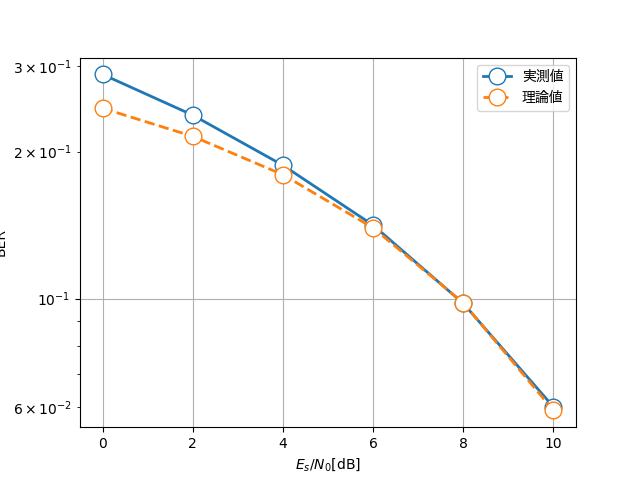
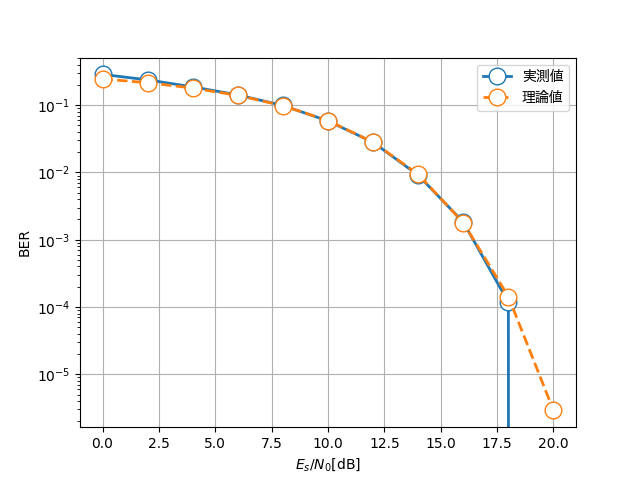
iterごとの時間計測実装

diff --git a/hpctoolkit/main.py b/hpctoolkit/main.py
@@ -21,23 +21,31 @@ class HPCToolkit:
         self.nworker = SIM.nworker
         self.nloop = SIM.nloop
         self.EsN0 = SIM.EsN0
-        # self.process_start_time_list = [['' for i in range(EsN0.shape[0])] for j in range(nworker)]
-        # self.process_finish_time_list = [['' for i in range(EsN0.shape[0])] for j in range(nworker)]
-        self.process_start_time_ndarray = np.zeros((self.nworker, self.EsN0.shape[0]))
-        self.process_finish_time_ndarray = np.zeros((self.nworker, self.EsN0.shape[0]))
+        self.process_start_time_list = [['' for i in range(1)] for j in range(self.nworker)]
+        self.process_finish_time_list = [['' for i in range(1)] for j in range(self.nworker)]
+        # self.process_start_time_ndarray = np.zeros((self.nworker, self.EsN0.shape[0]))
+        # self.process_finish_time_ndarray = np.zeros((self.nworker, self.EsN0.shape[0]))
         self.lock = SIM.lock
         # 初期値書き込み
         self.write_initial(self.get_str_spec(self.nworker))
         print()
 
     def start(self, process_idx: int, EsN0_idx: int):
-        # self.process_start_time_list[process_idx][EsN0_idx] = time.time()
-        self.process_start_time_ndarray[process_idx, EsN0_idx] = time.time()
+        if EsN0_idx == 0:
+            self.process_start_time_list[process_idx][EsN0_idx] = time.time()
+        else:
+            self.process_start_time_list[process_idx].append(time.time())
+        # self.process_start_time_ndarray[process_idx, EsN0_idx] = time.time()
 
     def finish(self, process_idx: int, EsN0_idx: int):
-        # self.process_finish_time_list[process_idx][EsN0_idx] = time.time()
-        self.process_finish_time_ndarray[process_idx, EsN0_idx] = time.time()
-        average_time = np.mean(self.process_finish_time_ndarray[process_idx, :] - self.process_start_time_ndarray[process_idx, :])
+        if EsN0_idx == 0:
+            self.process_finish_time_list[process_idx][EsN0_idx] = time.time()
+        else:
+            self.process_finish_time_list[process_idx].append(time.time())
+        # self.process_finish_time_ndarray[process_idx, EsN0_idx] = time.time()
+        # average_time = np.mean(self.process_finish_time_ndarray[process_idx, :] - self.process_start_time_ndarray[process_idx, :])
+        diff_time_list = [x - y for x, y in zip(self.process_finish_time_list[process_idx], self.process_start_time_list[process_idx])]
+        average_time = sum(diff_time_list) / len(diff_time_list)
         d, h, m, s = get_d_h_m_s(float(average_time))
         average_time_text = str(d) + "d " + str(h) + "h " + str(m) + "m " + str(s) + "s" + "/iter"
         text = str(process_idx) + " " + progressbar(EsN0_idx, self.EsN0.shape[0]-1) + " " + average_time_text + "\n"

diff --git a/main.py b/main.py
@@ -12,11 +12,11 @@ class Constant:
 
 if __name__ == '__main__':
     SIM = Constant()
-    SIM.nworker = 19
+    SIM.nworker = 10
     SIM.Kd = 32
     SIM.wloop = 3
     SIM.ml = 4
-    SIM.EsN0 = np.arange(0, 11, 2)
+    SIM.EsN0 = np.arange(0, 21, 2)
     SIM.nloop = 10**SIM.wloop
     SIM.Q = 2**SIM.ml
     RES = np.zeros([len(SIM.EsN0), 7])

diff --git a/main_task.py b/main_task.py
@@ -54,7 +54,7 @@ def main_task(param):
     for idx_En in range(0, len(SIM.EsN0)):
         SIM.HT.start(nworker_idx, idx_En)
 
-        time.sleep(1)
+        time.sleep(np.random.rand(1)[0]*5)
 
         CH.N0 = 10**(-SIM.EsN0[idx_En]/10)  # 雑音分散
         CH.sigma = np.sqrt(CH.N0 / 2)
